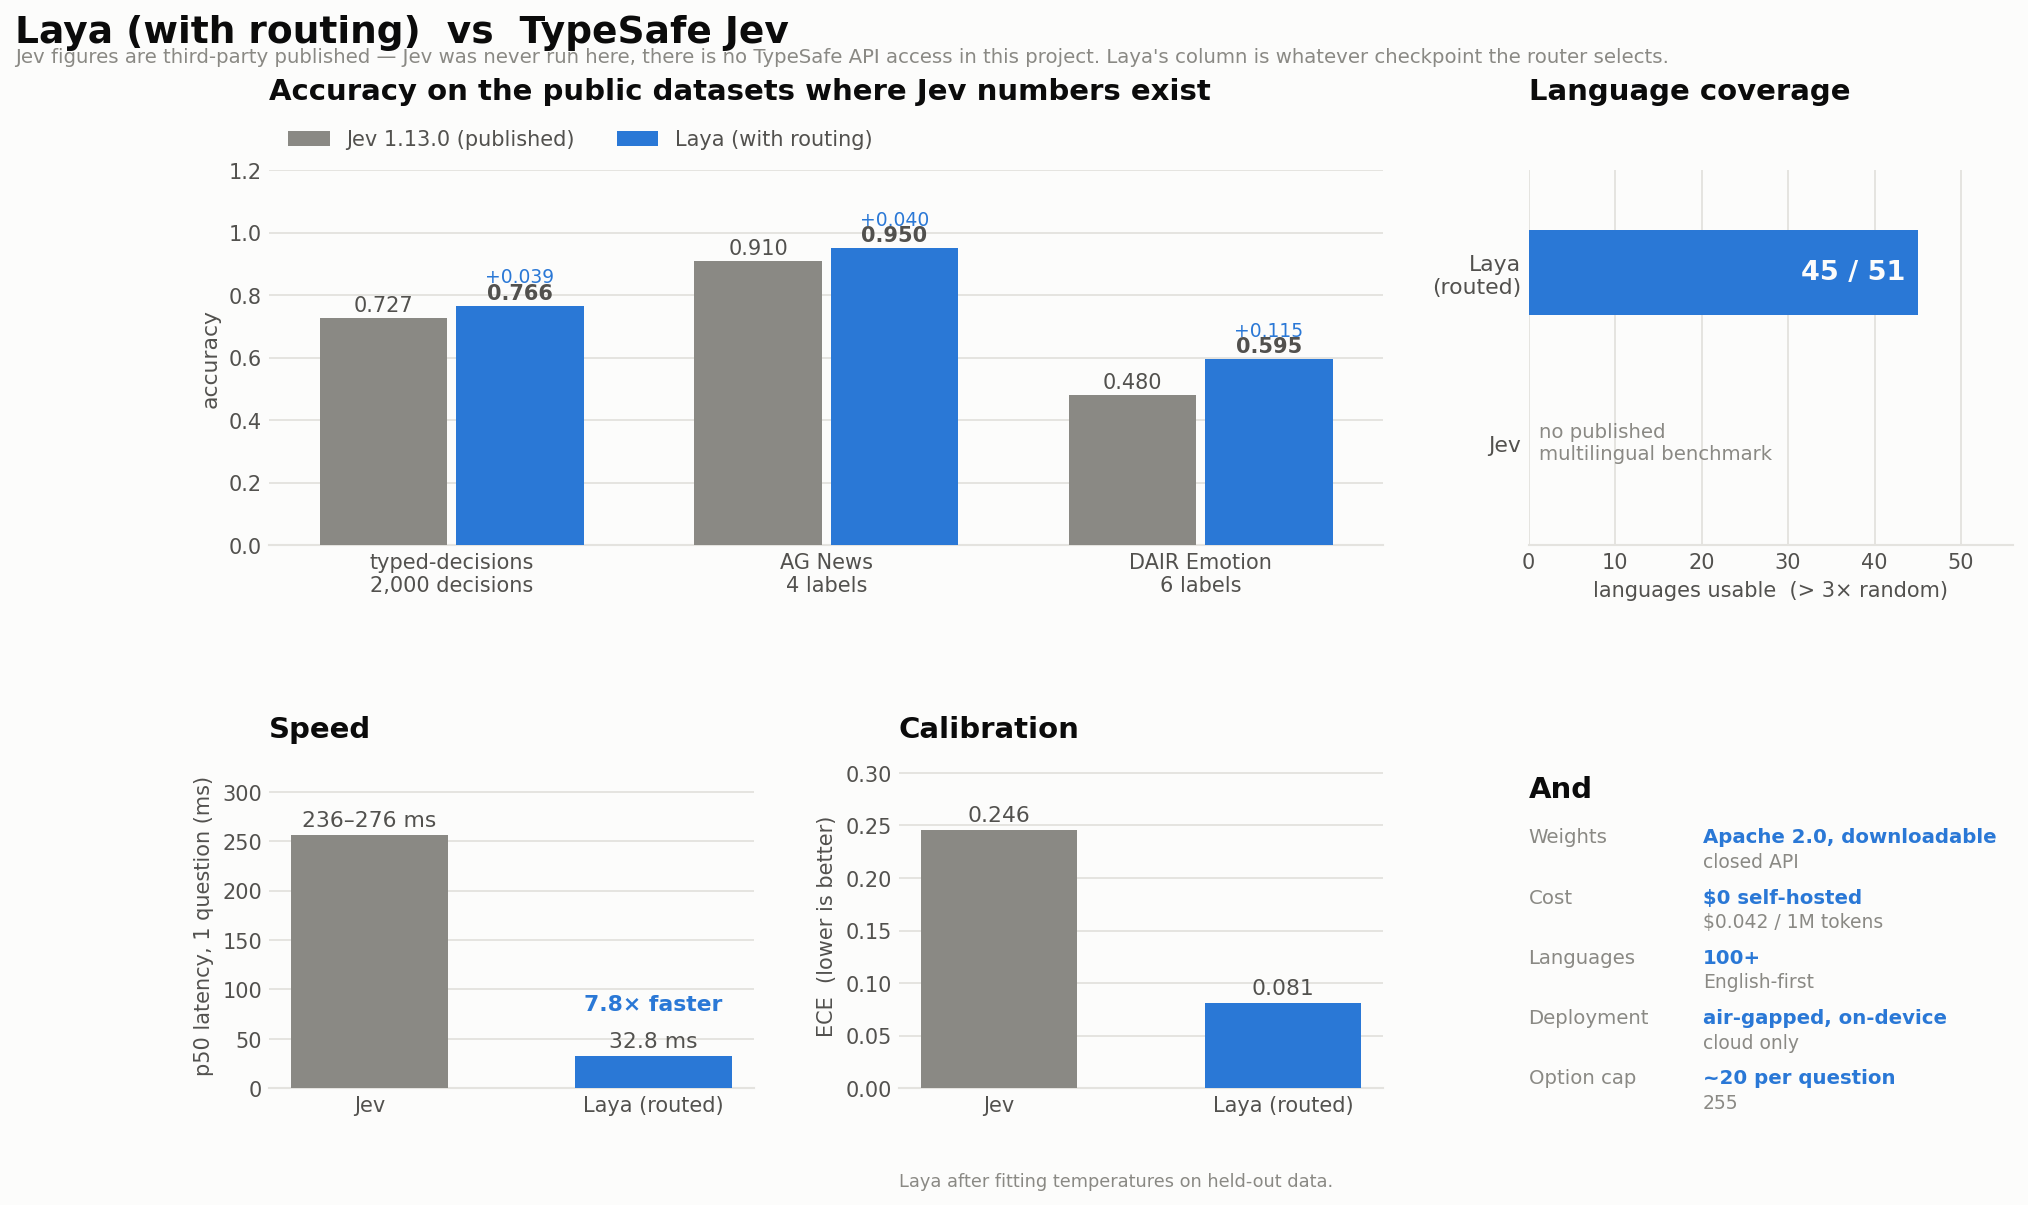
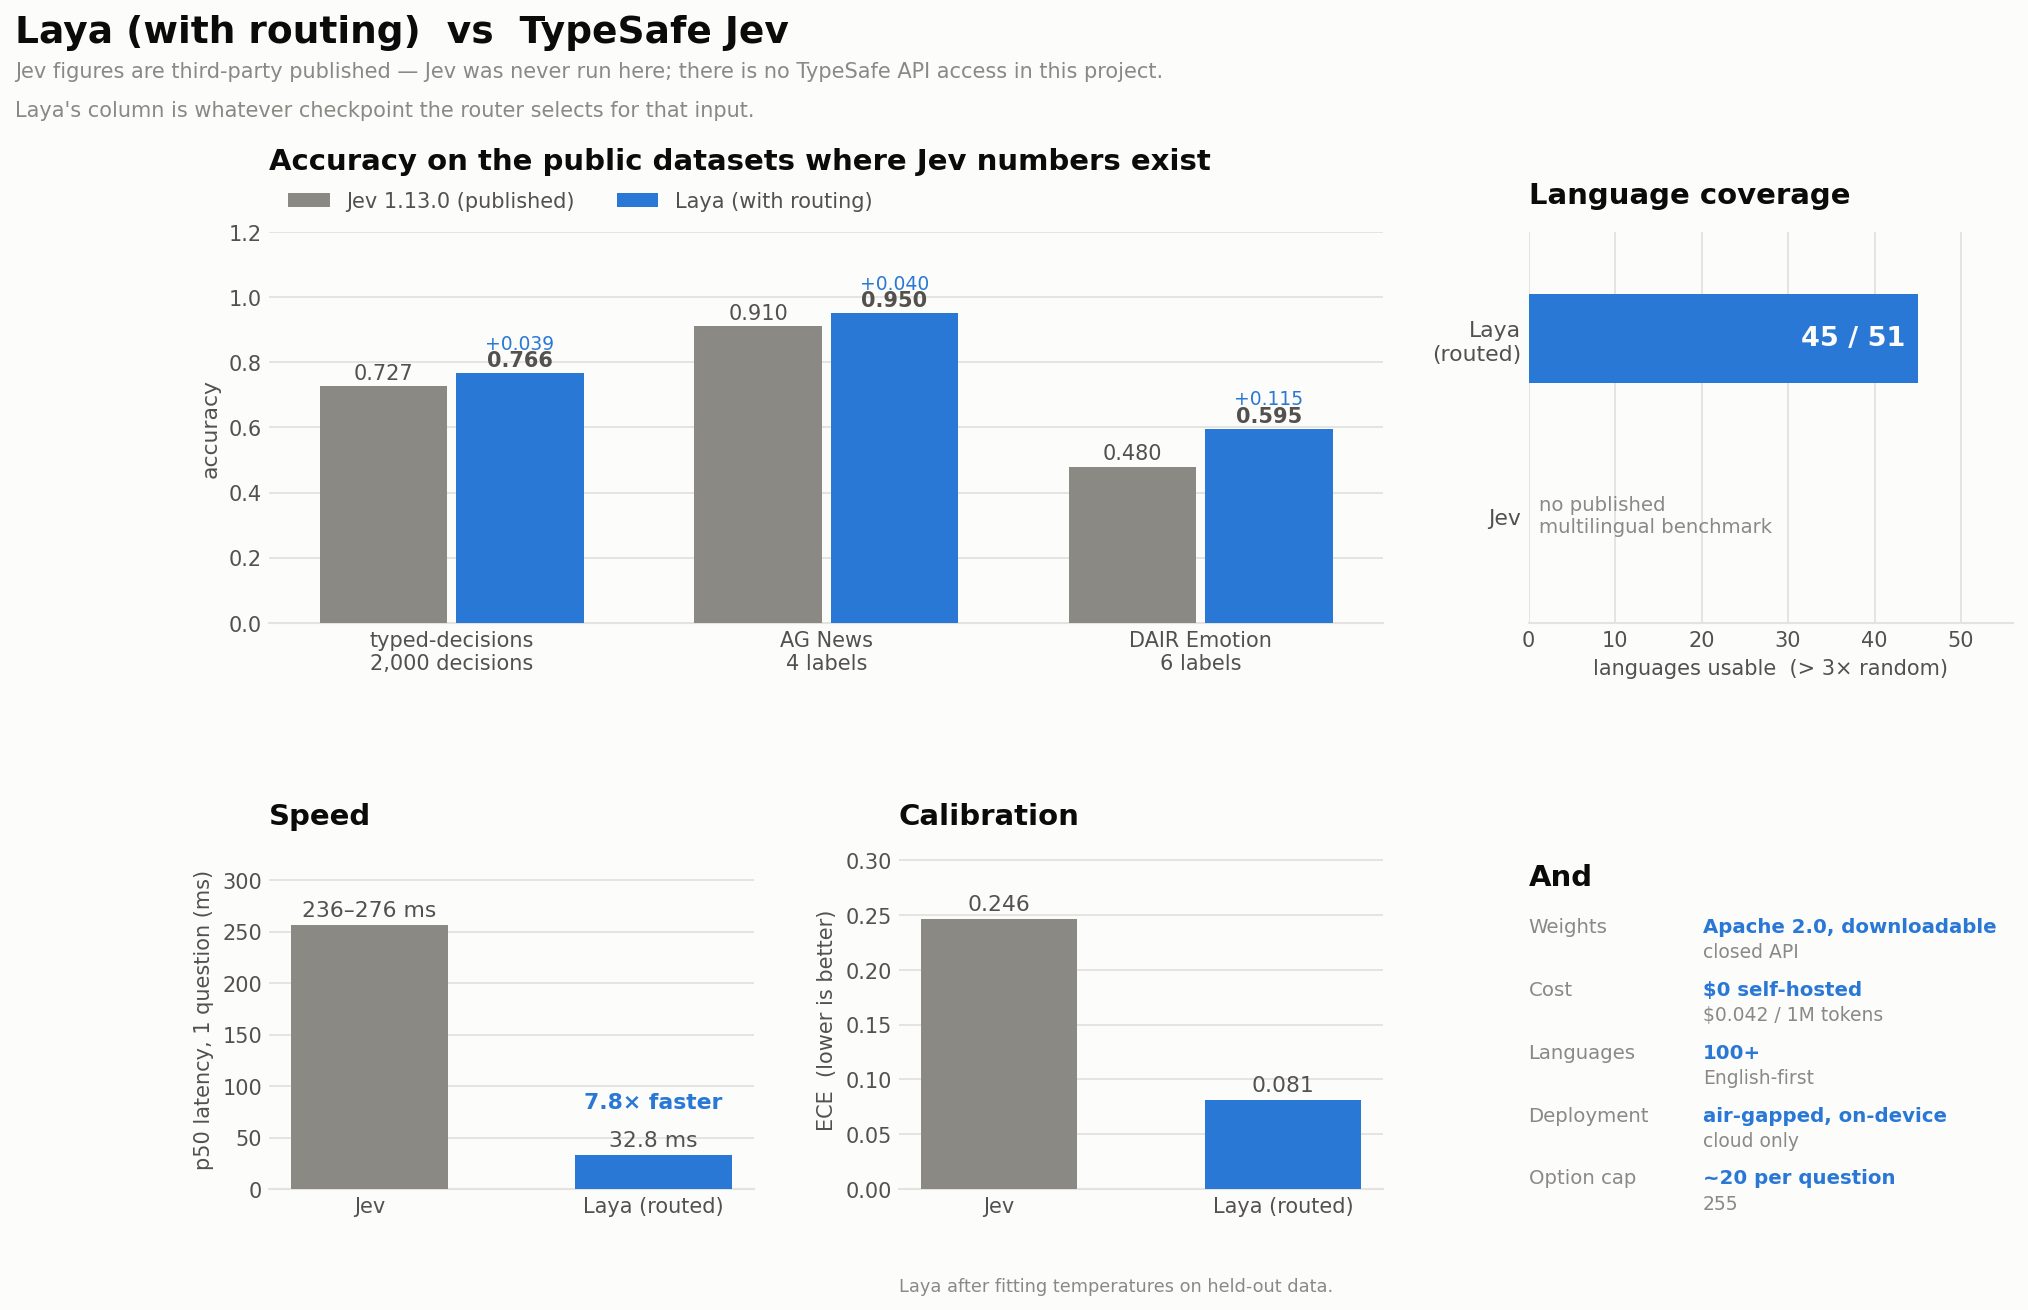
fix(docs): absolute image URLs so the figure renders on PyPI (v0.3.1)
PyPI renders this README as the long_description and cannot resolve relative
paths, so the benchmark figure was a broken image on the 0.3.0 project page.
Absolute raw.githubusercontent URLs render on GitHub, PyPI and Hugging Face
alike.

Also re-rendered assets/laya_vs_jev.png: the header block ran into the panel
titles at the top of the figure. The subtitle is now two lines in its own band
with real margin below it.

diff --git a/setup.py b/setup.py
@@ -2,7 +2,7 @@ from setuptools import setup, find_packages
 
 setup(
     name="laya",
-    version="0.3.0",
+    version="0.3.1",
     description="Fast, non-autoregressive System 1 decision engine with calibrated probabilities",
     long_description=open("README.md").read(),
     long_description_content_type="text/markdown",

diff --git a/laya/__init__.py b/laya/__init__.py
@@ -22,7 +22,7 @@ from .presets import (
 )
 from .router import DEFAULT_MODELS, RouteDecision, Router
 
-__version__ = "0.3.0"
+__version__ = "0.3.1"
 __all__ = [
     "Agent",
     "RLAgent",

diff --git a/README.md b/README.md
@@ -12,7 +12,7 @@
 [![License](https://img.shields.io/badge/License-Apache%202.0-green.svg)](https://opensource.org/licenses/Apache-2.0)
 
 <p align="center">
-  <img src="assets/laya_vs_jev.png" alt="Laya with routing versus TypeSafe Jev: accuracy on shared public datasets, language coverage, speed and calibration" width="100%" />
+  <img src="https://raw.githubusercontent.com/NandhaKishorM/laya/main/assets/laya_vs_jev.png" alt="Laya with routing versus TypeSafe Jev: accuracy on shared public datasets, language coverage, speed and calibration" width="100%" />
 </p>
 
 Laya evaluates typed questions (`choice`, `score`, `noul`) over any state (text, email, ticket or JSON document) in **a single forward pass** — 33 ms for one question, 7.2 ms/question batched, measured on a T4. No text generation, so nothing to parse and nothing to hallucinate.
@@ -244,7 +244,7 @@ router.loaded              # ['multilingual']
 **Full report: [`BENCHMARKS.md`](BENCHMARKS.md)** — every run consolidated, languages and themes, with per-language detail for all 51 languages.
 
 <p align="center">
-  <img src="assets/laya_benchmark.png" alt="Per-language accuracy for both checkpoints across 51 languages" width="100%" />
+  <img src="https://raw.githubusercontent.com/NandhaKishorM/laya/main/assets/laya_benchmark.png" alt="Per-language accuracy for both checkpoints across 51 languages" width="100%" />
 </p>
 
 All Laya numbers below are measured. Every model answered byte-identical questions
